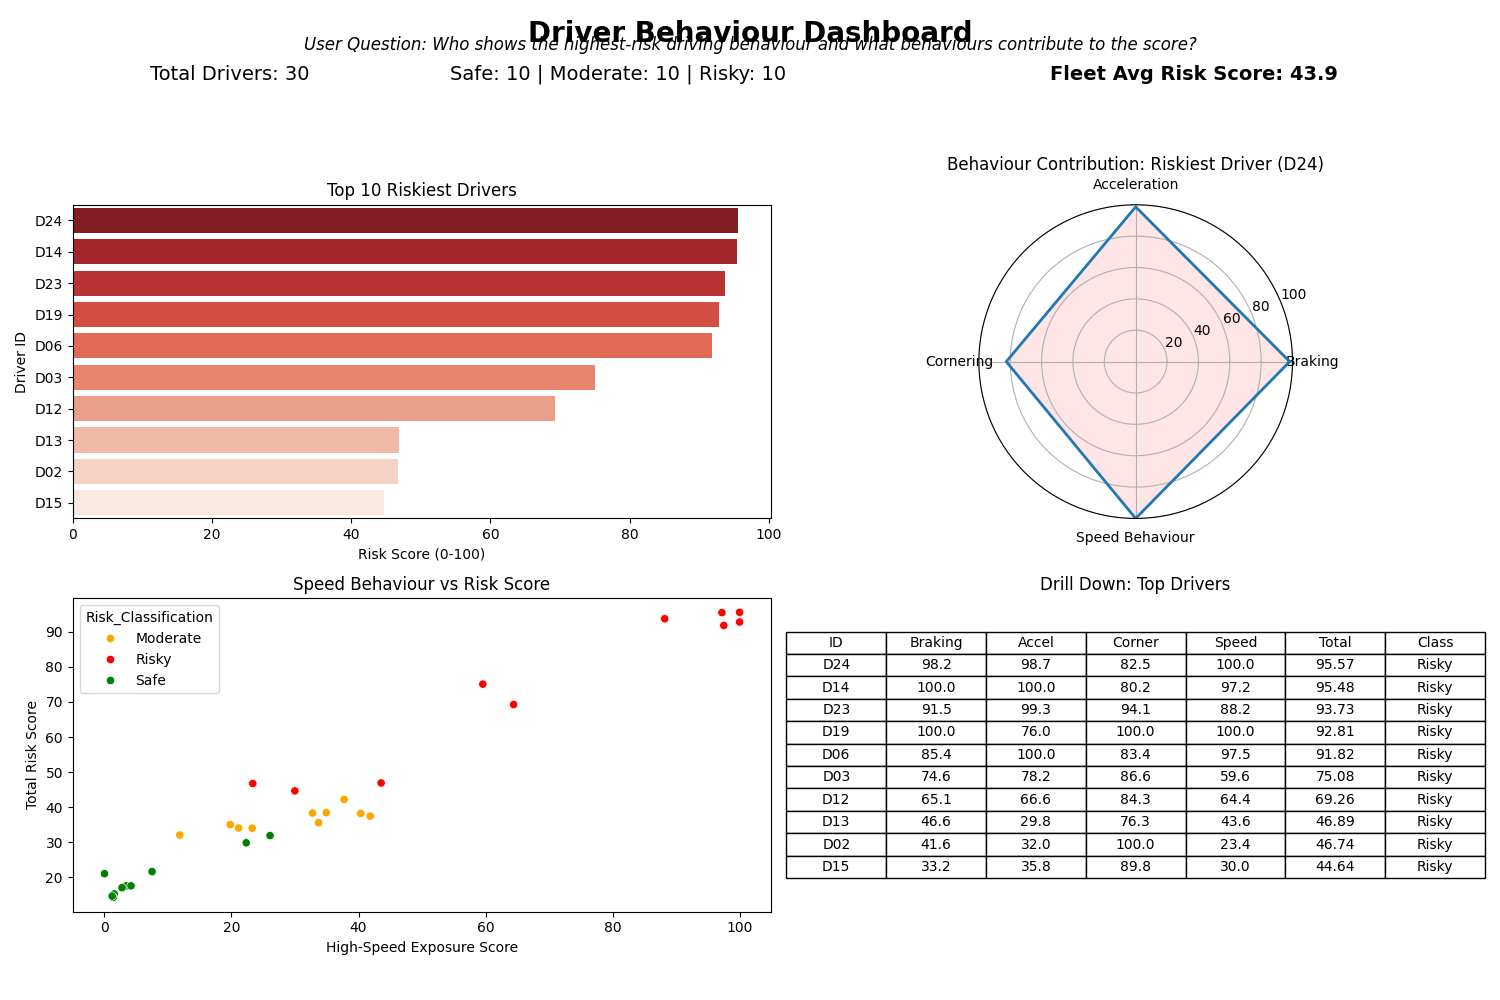
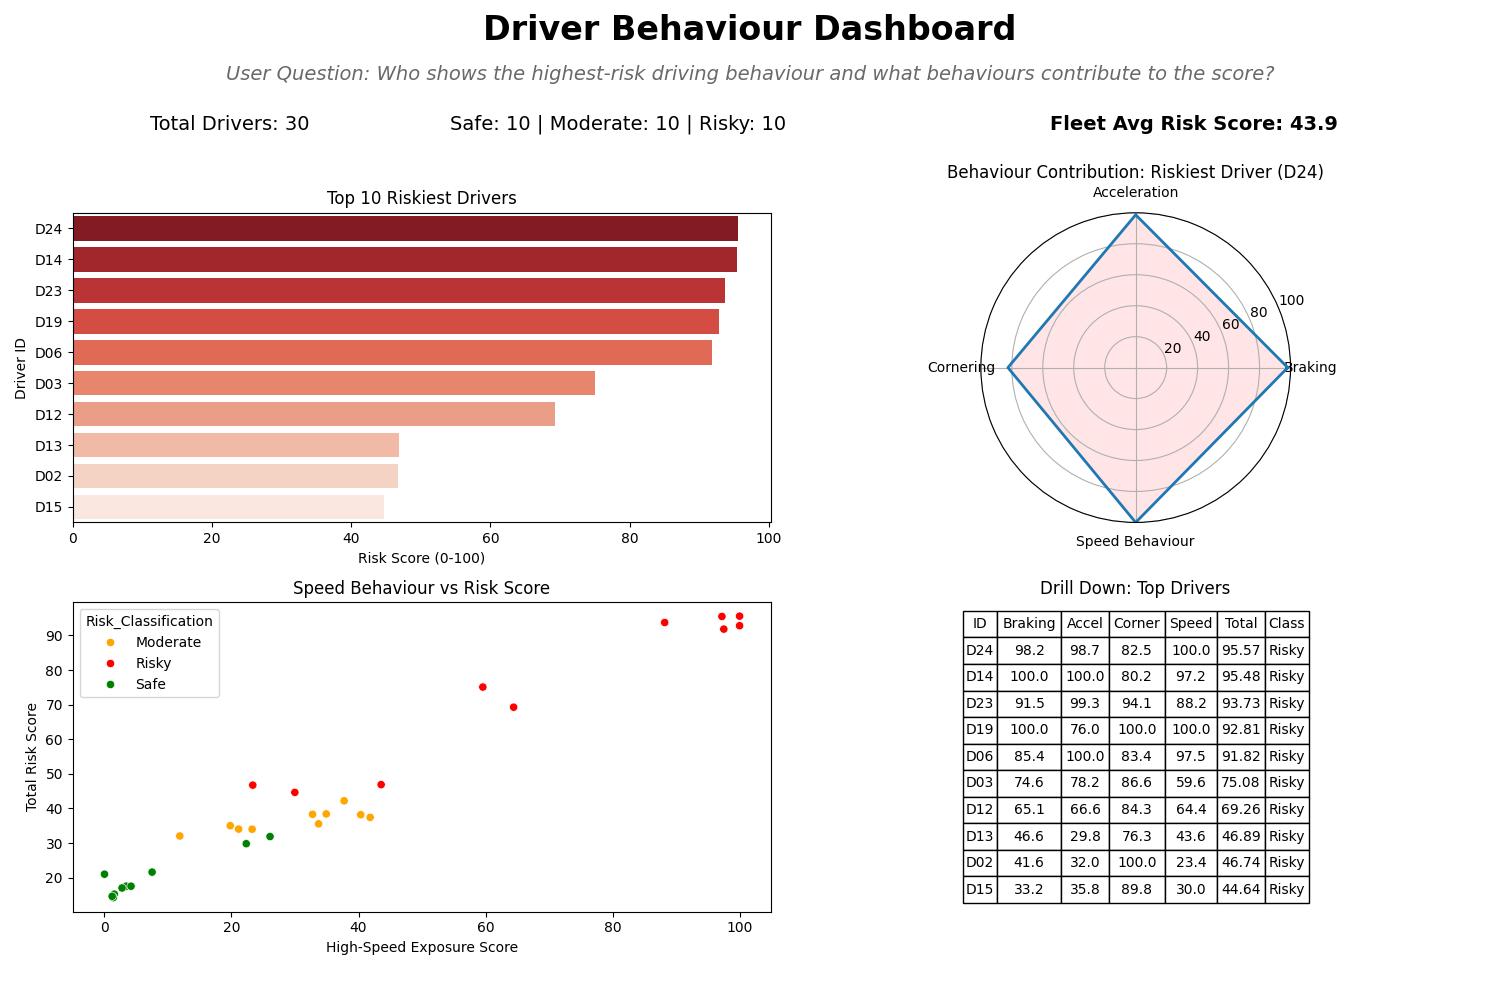
initial commit

diff --git a/src/generate_dashboards.py b/src/generate_dashboards.py
@@ -9,8 +9,8 @@ def generate_driver_dashboard(driver_metrics_path, output_path):
     
     # Setup Figure
     fig = plt.figure(figsize=(15, 10))
-    fig.suptitle('Driver Behaviour Dashboard', fontsize=20, fontweight='bold')
-    fig.text(0.5, 0.95, 'User Question: Who shows the highest-risk driving behaviour and what behaviours contribute to the score?', ha='center', fontsize=12, style='italic')
+    fig.text(0.5, 0.96, 'Driver Behaviour Dashboard', fontsize=24, fontweight='bold', ha='center')
+    fig.text(0.5, 0.92, 'User Question: Who shows the highest-risk driving behaviour and what behaviours contribute to the score?', ha='center', fontsize=14, style='italic', color='dimgrey')
     
     # --- KPIs ---
     total_drivers = len(df)
@@ -19,9 +19,9 @@ def generate_driver_dashboard(driver_metrics_path, output_path):
     moderate = len(df[df['Risk_Classification'] == 'Moderate'])
     risky = len(df[df['Risk_Classification'] == 'Risky'])
     
-    fig.text(0.1, 0.92, f'Total Drivers: {total_drivers}', fontsize=14)
-    fig.text(0.3, 0.92, f'Safe: {safe} | Moderate: {moderate} | Risky: {risky}', fontsize=14)
-    fig.text(0.7, 0.92, f'Fleet Avg Risk Score: {avg_score:.1f}', fontsize=14, fontweight='bold')
+    fig.text(0.1, 0.87, f'Total Drivers: {total_drivers}', fontsize=14)
+    fig.text(0.3, 0.87, f'Safe: {safe} | Moderate: {moderate} | Risky: {risky}', fontsize=14)
+    fig.text(0.7, 0.87, f'Fleet Avg Risk Score: {avg_score:.1f}', fontsize=14, fontweight='bold')
     
     # --- Grid ---
     ax1 = plt.subplot(2, 2, 1)
@@ -67,10 +67,13 @@ def generate_driver_dashboard(driver_metrics_path, output_path):
     # Rename columns for space
     table_data.columns = ['ID', 'Braking', 'Accel', 'Corner', 'Speed', 'Total', 'Class']
     table = ax4.table(cellText=table_data.values, colLabels=table_data.columns, loc='center', cellLoc='center')
-    table.scale(1, 1.5)
+    table.auto_set_font_size(False)
+    table.set_fontsize(10)
+    table.scale(1, 1.8)
+    table.auto_set_column_width(col=list(range(len(table_data.columns))))
     ax4.set_title('Drill Down: Top Drivers')
     
-    plt.tight_layout(rect=[0, 0.03, 1, 0.90])
+    plt.tight_layout(rect=[0, 0.03, 1, 0.85])
     plt.savefig(output_path)
     plt.close()
     print(f"Driver Dashboard saved to {output_path}")
@@ -79,8 +82,8 @@ def generate_vehicle_dashboard(vehicle_metrics_path, output_path):
     df = pd.read_csv(vehicle_metrics_path)
     
     fig = plt.figure(figsize=(15, 10))
-    fig.suptitle('Vehicle Health Status Dashboard', fontsize=20, fontweight='bold')
-    fig.text(0.5, 0.95, 'User Question: Which vehicles require attention and is the abnormality persistent?', ha='center', fontsize=12, style='italic')
+    fig.text(0.5, 0.96, 'Vehicle Health Status Dashboard', fontsize=24, fontweight='bold', ha='center')
+    fig.text(0.5, 0.92, 'User Question: Which vehicles require attention and is the abnormality persistent?', ha='center', fontsize=14, style='italic', color='dimgrey')
     
     # --- KPIs ---
     total_vehicles = len(df)
@@ -89,9 +92,9 @@ def generate_vehicle_dashboard(vehicle_metrics_path, output_path):
     monitor = len(df[df['Health_Classification'] == 'Monitor'])
     maintenance = len(df[df['Health_Classification'] == 'Maintenance Recommended'])
     
-    fig.text(0.1, 0.92, f'Total Vehicles: {total_vehicles}', fontsize=14)
-    fig.text(0.3, 0.92, f'Healthy: {healthy} | Monitor: {monitor} | Maintenance: {maintenance}', fontsize=14)
-    fig.text(0.7, 0.92, f'Fleet Avg Health Score: {avg_score:.1f}', fontsize=14, fontweight='bold')
+    fig.text(0.1, 0.87, f'Total Vehicles: {total_vehicles}', fontsize=14)
+    fig.text(0.3, 0.87, f'Healthy: {healthy} | Monitor: {monitor} | Maintenance: {maintenance}', fontsize=14)
+    fig.text(0.7, 0.87, f'Fleet Avg Health Score: {avg_score:.1f}', fontsize=14, fontweight='bold')
     
     # --- Grid ---
     ax1 = plt.subplot(2, 2, 1)
@@ -124,10 +127,13 @@ def generate_vehicle_dashboard(vehicle_metrics_path, output_path):
     table_data = df.sort_values('Health_Risk_Score', ascending=False)[['Vehicle_ID', 'Health_Risk_Score', 'Persistence_Pct', 'Drivers_With_Anomaly', 'Health_Classification']].head(10)
     table_data['Persistence_Pct'] = table_data['Persistence_Pct'].round(1).astype(str) + '%'
     table = ax4.table(cellText=table_data.values, colLabels=['ID', 'Score', 'Persistence', 'Anomaly Drivers', 'Status'], loc='center', cellLoc='center')
-    table.scale(1, 1.5)
+    table.auto_set_font_size(False)
+    table.set_fontsize(10)
+    table.scale(1, 1.8)
+    table.auto_set_column_width(col=list(range(len(table_data.columns))))
     ax4.set_title('Drill Down: Critical Vehicles')
     
-    plt.tight_layout(rect=[0, 0.03, 1, 0.90])
+    plt.tight_layout(rect=[0, 0.03, 1, 0.85])
     plt.savefig(output_path)
     plt.close()
     print(f"Vehicle Dashboard saved to {output_path}")

diff --git a/trace.py b/trace.py
@@ -1,0 +1,33 @@
+import pandas as pd
+import json
+
+df_driver = pd.read_csv('outputs/driver_metrics.csv')
+print("--- 3 Drivers Trace ---")
+for _, row in df_driver.head(3).iterrows():
+    print(f"\nDriver: {row['Driver_ID']}")
+    print(f"Total Minutes: {row['Total_Minutes']}")
+    print(f"Hard Braking Rate: {row['Hard_Braking_Rate']:.2f}")
+    print(f"Harsh Accel Rate: {row['Harsh_Accel_Rate']:.2f}")
+    print(f"Harsh Corner Rate: {row['Harsh_Corner_Rate']:.2f}")
+    print(f"High Speed Ratio: {row['High_Speed_Ratio']:.2f}")
+    print(f"Braking Subscore: {row['Braking_Subscore']:.2f} (Weight 0.3)")
+    print(f"Accel Subscore: {row['Accel_Subscore']:.2f} (Weight 0.3)")
+    print(f"Corner Subscore: {row['Corner_Subscore']:.2f} (Weight 0.2)")
+    print(f"Speed Subscore: {row['Speed_Subscore']:.2f} (Weight 0.2)")
+    print(f"Final Score: {row['Driver_Risk_Score']}")
+    print(f"Classification: {row['Risk_Classification']}")
+
+df_vehicle = pd.read_csv('outputs/vehicle_metrics.csv')
+with open('outputs/thresholds.json') as f:
+    thresh = json.load(f)
+print("\n--- 3 Vehicles Trace ---")
+print(f"Thresholds: {thresh}")
+for _, row in df_vehicle.head(3).iterrows():
+    print(f"\nVehicle: {row['Vehicle_ID']}")
+    print(f"Total Trips: {row['Total_Trips']}")
+    print(f"Anomalous Trips: {row['Anomalous_Trips']}")
+    print(f"Persistence Pct: {row['Persistence_Pct']:.2f}%")
+    print(f"Unique Drivers: {row['Total_Drivers']}")
+    print(f"Drivers With Anomaly: {row['Drivers_With_Anomaly']}")
+    print(f"Health Risk Score: {row['Health_Risk_Score']}")
+    print(f"Classification: {row['Health_Classification']}")
